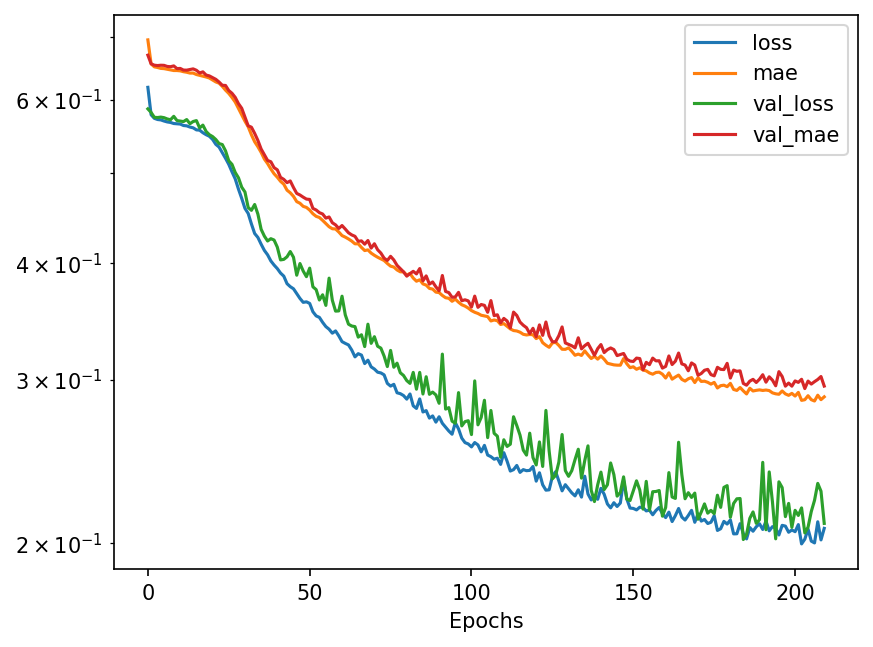
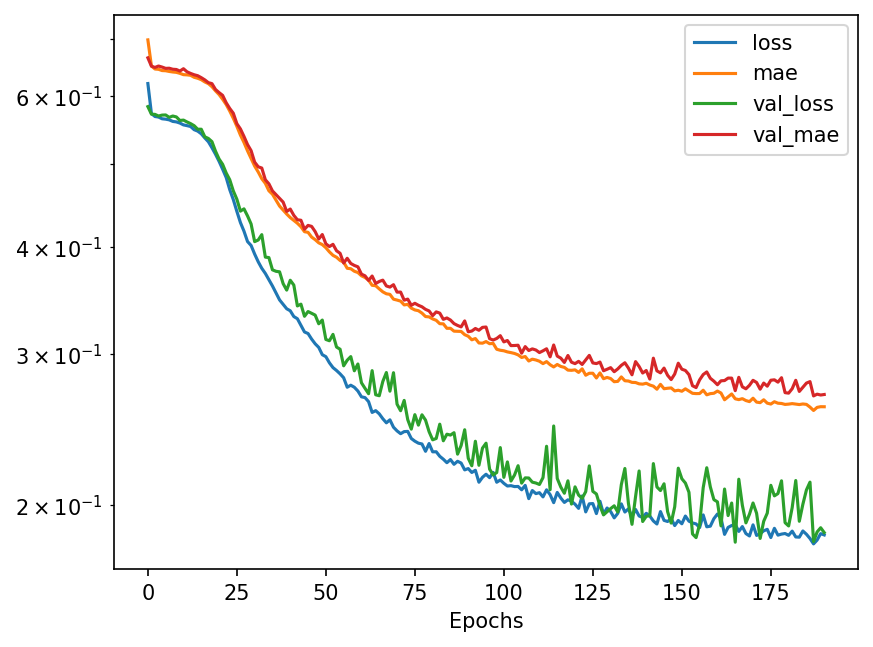
2 Iris Convergence

diff --git a/Neural Network/MultiAdjust/PhysicalAlignment.py b/Neural Network/MultiAdjust/PhysicalAlignment.py
@@ -1,6 +1,7 @@
 from moku.instruments import Oscilloscope
 
 import matplotlib.pyplot as plt
+from matplotlib.lines import Line2D
 import time
 
 from moku.nn import LinnModel
@@ -44,7 +45,7 @@ laser_mod.model.load_weights('laser.weights.h5')
 
 def read_power():
     data = osc.get_data()
-    return sum(data['ch1']) / len(data['ch1']) * 6.45
+    return sum(data['ch1']) / len(data['ch1']) * 6.455
 
 def look_for_signal():
     
@@ -56,7 +57,7 @@ def look_for_signal():
                 (0, -1, 1.46),  # -X 1.46
                 (1, -1, 1.12)]  # -Y 1.12
     elif driver == 1:
-         legs = [(0, 1, 1.84),  # +X 1.84   (Put offsets in the third spot)
+         legs = [(0, 1, 1.64),  # +X 1.84   (Put offsets in the third spot)
                 (1, 1, 1),      # +Y 1.00
                 (0, -1, 1.53),  # -X 1.53
                 (1, -1, 1.01)]  # -Y 1.01
@@ -101,9 +102,9 @@ def look_for_signal():
         print('No signal - Scanning')
 
 def fine_tune():
-    step = 32
+    step = 30
     axis = 0
-    while step >= 4:
+    while step >= 15:
         peak = read_power()
 
         # Check + 1 and keep it if it improves, else undo it and search - 1
@@ -155,16 +156,100 @@ def plot_path():
     ax.set_title('Laser beam path')
     plt.savefig('LaserMovement.png', dpi=150, bbox_inches='tight')
 
+def plot_iris_power():
+    # Per alignment cycle, show the beam power at three stages as a pair of
+    # arrows:  start --(orange)--> model --(maroon)--> tuned
+    #   start = before the model scan begins
+    #   model = after the model converges, before fine-tuning  (iris*end)
+    #   tuned = after fine_tune() peaks it
+    # Iris 1 and iris 2 get their own panel since they sit at different powers.
+    # Both arrows share the cycle's x and are drawn translucent so you can see
+    # both where they overlap. An arrow whose change is smaller than its own head
+    # is dropped (just the dash is shown) so tiny moves aren't all-head stubs.
+    # A dotted gray line marks each iris's max power reached.
+    GRAY, ORANGE, MAROON = '#75787B', '#E87722', '#861F41'   # Virginia Tech
+    HALF, MUT, LW, ALPHA = 0.13, 15, 2.6, 0.6
+    HEAD_FRAC = 0.4   # '-|>' head length = HEAD_FRAC * mutation_scale (points)
+
+    prev = plt.gcf().number if plt.get_fignums() else None   # restore later so
+    fig = plt.figure('iris_power')                           # plot_path()'s
+    fig.clf()                                                # current-figure
+    axes = fig.subplots(1, 2)                                # isn't redirected
+
+    # last field = how many leading cycles to skip
+    panels = (('Iris 1', iris1start, iris1end, iris1tuned, 0),
+              ('Iris 2', iris2start, iris2end, iris2tuned, 0))
+
+    # Pass 1: dots + dashes (centred on the cycle's x) + dotted max line.
+    for ax, (name, s, m, t, skip) in zip(axes, panels):
+        ks = list(range(skip, min(len(s), len(m), len(t))))   # cycles to plot
+        ys = []
+        for i, k in enumerate(ks):
+            x = i + 1
+            ax.plot(x, s[k], 'o', color=GRAY, ms=9, zorder=5)            # start
+            ax.plot([x - HALF, x + HALF], [m[k], m[k]], color=ORANGE,    # model
+                    lw=4, solid_capstyle='round', zorder=3)
+            ax.plot([x - HALF, x + HALF], [t[k], t[k]], color=MAROON,    # tuned
+                    lw=4, solid_capstyle='round', zorder=3)
+            ys += [s[k], m[k], t[k]]
+        if ys:
+            ax.axhline(max(ys), ls=':', color='gray', lw=1, zorder=1)    # max
+        ax.set_title(name)
+        ax.set_xlabel('Iteration')
+        ax.set_ylabel('Power (mW)')
+        ax.grid(alpha=.3)
+        if ks:
+            ax.set_xticks(range(1, len(ks) + 1))
+
+    legend = [Line2D([], [], ls='', marker='o', color=GRAY, ms=9, label='Start'),
+              Line2D([], [], color=ORANGE, lw=4, label='Neural Network'),
+              Line2D([], [], color=MAROON, lw=4, label='Fine Tune')]
+    fig.legend(handles=legend, loc='upper center', ncol=3, frameon=True,
+               bbox_to_anchor=(0.5, 0.92))   # key above the panels, out of the way
+
+    fig.suptitle('Iris Power During Alignment', y=0.99)
+    fig.tight_layout(rect=(0, 0, 1, 0.86))
+    fig.canvas.draw()   # finalize transforms (axis sizes) before sizing arrows
+
+    # Pass 2: translucent overlapping arrows, skipped when the change is shorter
+    # than the arrow head. Convert the head length from points to data units per
+    # panel, since the two panels span very different power ranges.
+    head_px = HEAD_FRAC * MUT * fig.dpi / 72.0
+    for ax, (name, s, m, t, skip) in zip(axes, panels):
+        inv = ax.transData.inverted()
+        head_data = abs(inv.transform((0, head_px))[1] - inv.transform((0, 0))[1])
+        ks = list(range(skip, min(len(s), len(m), len(t))))
+        for i, k in enumerate(ks):
+            x = i + 1
+            if abs(m[k] - s[k]) >= head_data:   # start -> model (orange)
+                ax.annotate('', xy=(x, m[k]), xytext=(x, s[k]),
+                            arrowprops=dict(arrowstyle='-|>', color=ORANGE, lw=LW,
+                                            mutation_scale=MUT, shrinkA=0, shrinkB=0,
+                                            alpha=ALPHA), zorder=4)
+            if abs(t[k] - m[k]) >= head_data:   # model -> tuned (maroon)
+                ax.annotate('', xy=(x, t[k]), xytext=(x, m[k]),
+                            arrowprops=dict(arrowstyle='-|>', color=MAROON, lw=LW,
+                                            mutation_scale=MUT, shrinkA=0, shrinkB=0,
+                                            alpha=ALPHA), zorder=4)
+
+    fig.savefig('IrisPower.png', dpi=150, bbox_inches='tight')
+    if prev is not None:
+        plt.figure(prev)
+
 def xy_start():
     # 4 moves and data to start with
     global axis, direction, pwr
-    axis = [1,0,1,0]
+    axis = [0,1,0,1]
     direction = [1,1,-1,-1]
     pwr = []
+    if driver == 1:
+        steps = [1.84, 1.00, 1.53, 1.01] # [+X, +Y, -X, -Y]
+    elif driver == 2:
+        steps = [1.39, 1.00, 1.46, 1.12] # [+X, +Y, -X, -Y]
 
     for i in range(moves):
         pwr.append(read_power())
-        move(axis[i], direction[i], 50, velocity, driver)
+        move(axis[i], direction[i], (int)(steps[i]*25), velocity, driver)
 
     # Reverse so slot [0] = most recent move 
     axis      = axis[::-1]
@@ -191,14 +276,21 @@ try:
 
     peak = 0
 
+    iris1start = [read_power()]
+    iris1end = []
+    iris1tuned = []
+    iris2start = []
+    iris2end = []
+    iris2tuned = []
+
     plt.ion()   # interactive mode so the plot updates live without blocking moves
 
     while True: # Run the model and make the resulting moves
 
-        if driver == 2:
-            ratio = [1.39, 1.00, 1.46, 1.12] # [+X, +Y, -X, -Y]
-        elif driver == 1:
+        if driver == 1:
             ratio = [1.84, 1.00, 1.53, 1.01] # [+X, +Y, -X, -Y]
+        elif driver == 2:
+            ratio = [1.39, 1.00, 1.46, 1.12] # [+X, +Y, -X, -Y]
         
         current_power = read_power()
         time.sleep(.1)
@@ -245,12 +337,28 @@ try:
 
         # If it doesn't find a new max, get back to the max
         
-        if (((max(pwr) - min(pwr)) <= .025*peak) and (min(pwr) > .1) or (len(Xmoves) > 50)):
+        if (((max(pwr) - min(pwr)) <= .04*peak) and (min(pwr) > .1) or (len(Xmoves) > 50)): # Change power meter condition
+
+            if driver == 1: iris1end.append(read_power())
+            else: iris2end.append(read_power())
+
             fine_tune()
-            if driver == 1: driver = 2
-            else: driver = 1 
+
+            if driver == 1:
+                iris1tuned.append(read_power())
+                driver = 2
+            else:
+                iris2tuned.append(read_power())
+                driver = 1
+
             print(f'CENTER REACHED IN {len(Xmoves)} MOVES, PLEASE MOVE THE METER TO IRIS {driver}')
             time.sleep(10)
+
+            if driver == 1: iris1start.append(read_power())
+            else: iris2start.append(read_power())
+
+            plot_iris_power()
+
             xy_start()
             reset()
             continue

diff --git a/Neural Network/MultiAdjust/XYMoveSamples.py b/Neural Network/MultiAdjust/XYMoveSamples.py
@@ -16,7 +16,7 @@ from tqdm import tqdm
 # peaking log-uniformly within this band, so any deployment peak in [PEAK_MIN,
 # PEAK_MAX] is in-distribution. Readings stay true mW -- nothing is normalized.
 PEAK_MIN = 0.5
-PEAK_MAX = 5.0
+PEAK_MAX = 3.0
 
 # min_power_frac defines the boundary that the random points can spawn in
 def generate_samples(npz_paths, n_samples, moves, min_power_frac=0.005,
@@ -222,9 +222,9 @@ def _generate_from_scan(npz_path, n_samples, moves, min_power_frac=0.005,
 
         # Last move
         if axis[0] == 0: # This move is Y
-            steps = abs(y)/4
+            steps = abs(y)/3
         else: # This move is X
-            steps = abs(x)/4
+            steps = abs(x)/3
         corrections[i][1] = steps
 
         # Direction toward center (0,0) along THIS move's axis.

diff --git a/Neural Network/MultiAdjust/picoMotor.py b/Neural Network/MultiAdjust/picoMotor.py
@@ -10,10 +10,9 @@ ser = serial.Serial(  # This sets up the serial communication
     timeout=1
 )
 
-def send(cmd, timeout=2.0): # Waits for a response to move on
+def send(cmd, timeout=2.0):
     ser.reset_input_buffer()
     ser.write((cmd + '\r').encode())
-
     buf = b''
     deadline = time.time() + timeout
     while time.time() < deadline:

diff --git a/Moku/BasicTesting/PicoTest.py b/Moku/BasicTesting/PicoTest.py
@@ -110,12 +110,14 @@ else:
     """
 
     # Run an x number of steps and see how much it really runs
+    """
     pico.send('chl a2=0')
     pico.send('rel a2 =-5000')
     pico.send('go a2')
     time.sleep(5000/(1*100))
     pico.send('sto')
     print(pico.get_pos())
+    """
 
     # Right then left
     """